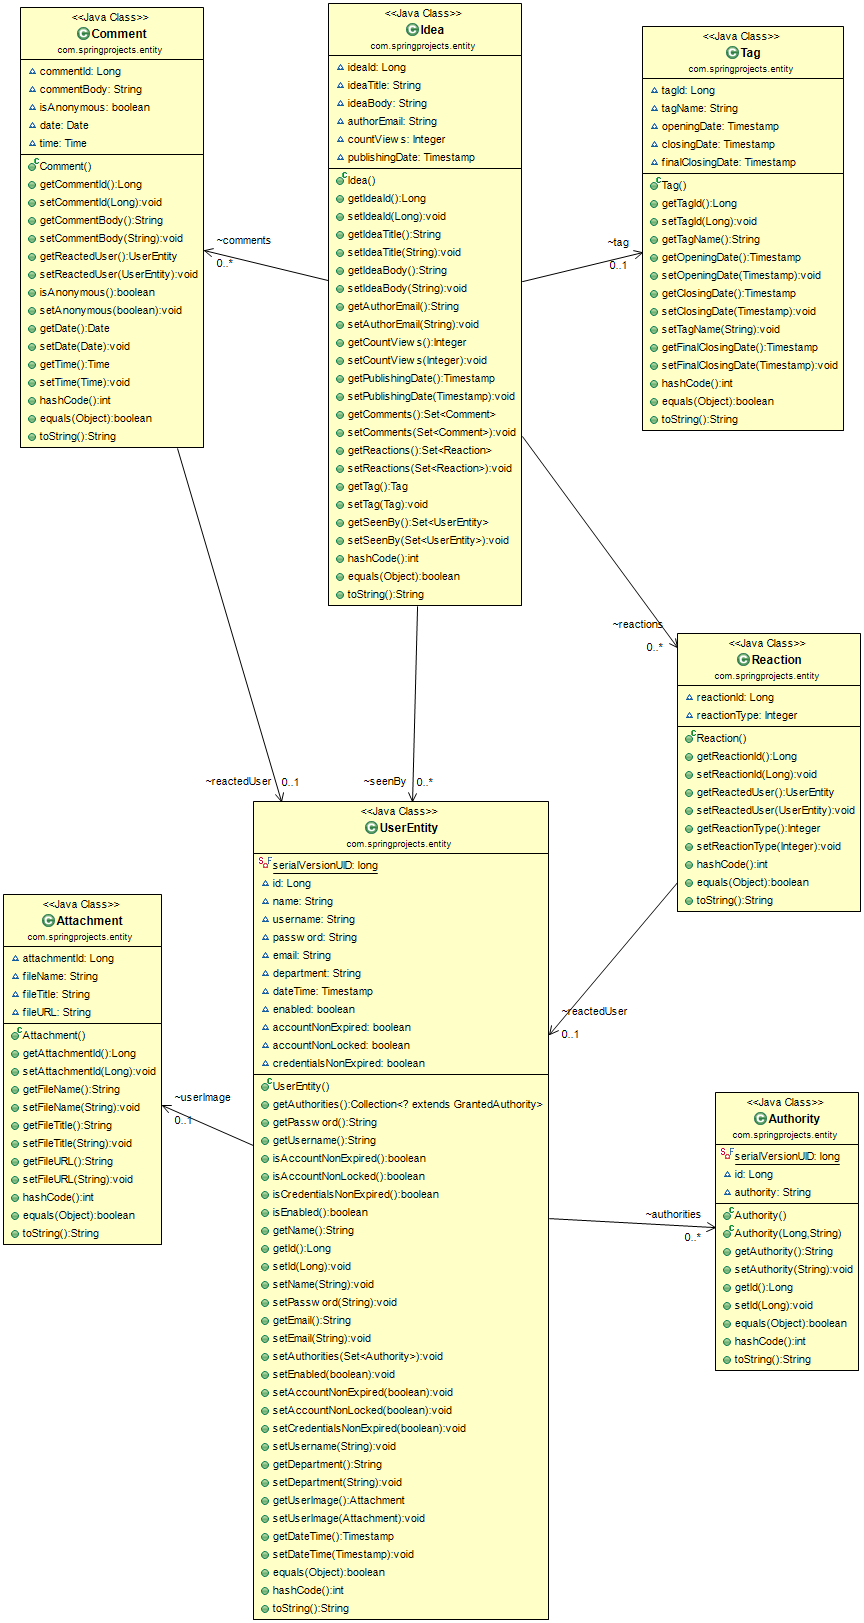
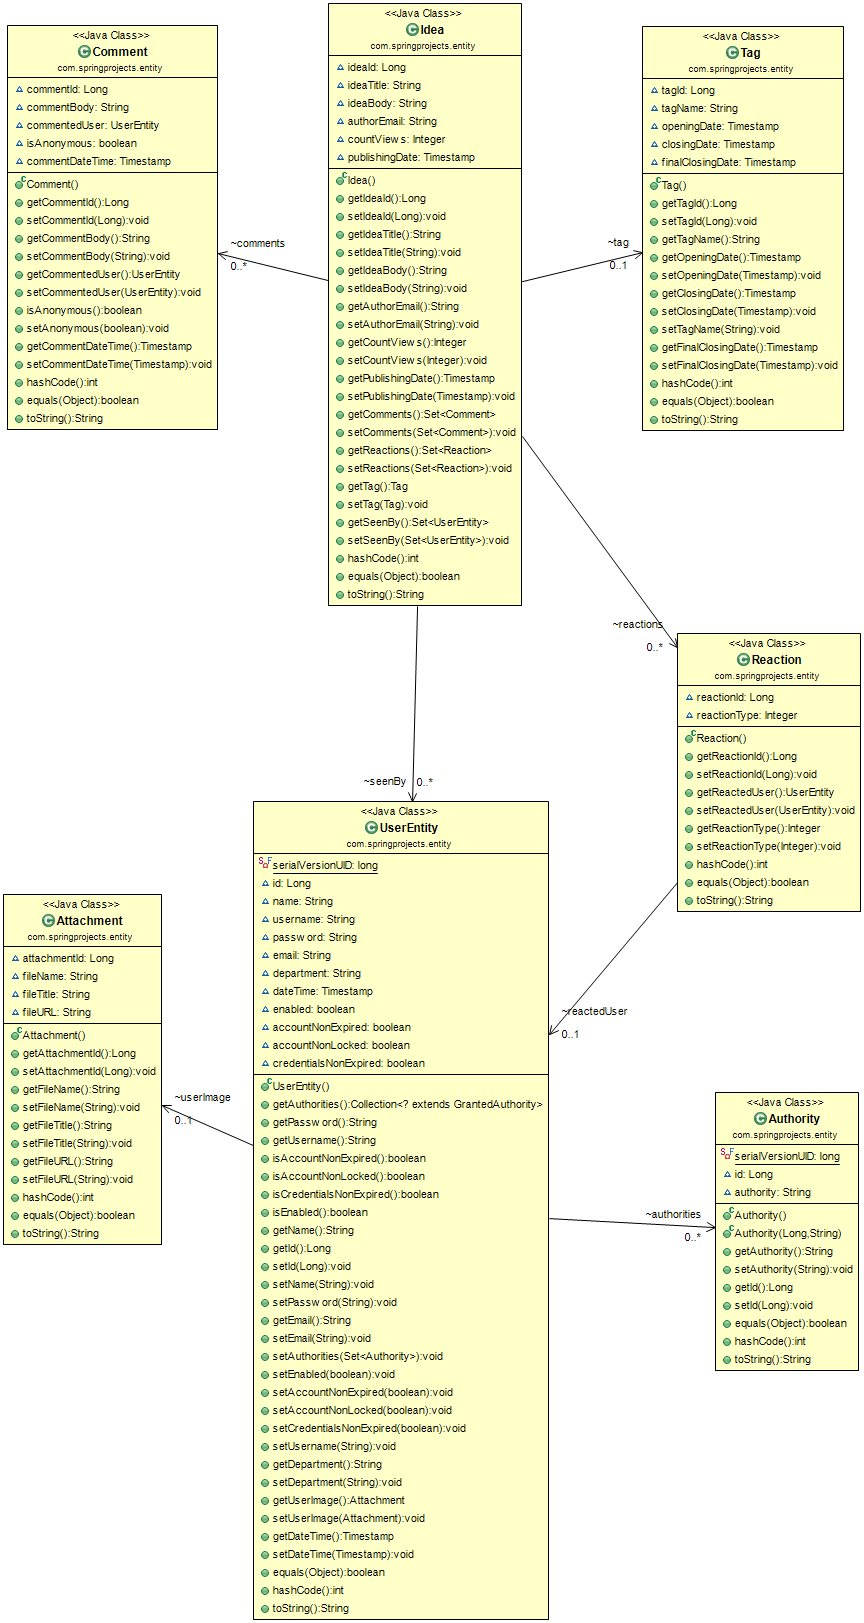
project folders organized

Changed region(s): [[0.0, 0.0, 0.3125, 0.2773], [0.2812, 0.4621, 0.3438, 0.4929]]

diff --git a/src/main/webapp/WEB-INF/views/student_template/index.html b/src/main/webapp/WEB-INF/views/student_template/index.html
@@ -283,7 +283,7 @@
 						<a href="#"><i class="fa fa-circle text-success"></i> Online</a>
 					</div>
 				</div>
-<!-- 				search form -->
+				<!-- 				search form -->
 				<form action="#" method="get" class="sidebar-form">
 					<div class="input-group">
 						<input type="text" name="q" class="form-control"
@@ -295,34 +295,40 @@
 						</span>
 					</div>
 				</form>
-<!-- 				/.search form sidebar menu: : style can be found in sidebar.less -->
+				<!-- 				/.search form sidebar menu: : style can be found in sidebar.less -->
 				<ul class="sidebar-menu" data-widget="tree">
 
 
 					<li class="header">MAIN NAVIGATION</li>
-					<li class="active treeview menu-open"><a href="#"> <i
-							class="fa fa-dashboard"></i> <span>Manage Roles</span> <span
-							class="pull-right-container"> <i
-								class="fa fa-angle-left pull-right"></i>
-						</span>
-					</a>
-						<ul class="treeview-menu">
-							<li class="active"><a th:href="@{/admin/create-role}"><i
-									class="fa fa-circle-o"></i> Create Role</a></li>
-							<li><a th:href="@{/admin/view-all-roles}"><i
-									class="fa fa-circle-o"></i> View All Roles</a></li>
-						</ul></li>
-					<li class="treeview"><a href="#"> <i class="fa fa-files-o"></i>
-							<span>Manage Tags</span> <span class="pull-right-container">
-								<i class="fa fa-angle-left pull-right"></i>
-						</span>
-					</a>
-						<ul class="treeview-menu">
-							<li><a th:href="@{/admin/create-tag}"><i
-									class="fa fa-circle-o"></i> Create Tag</a></li>
-							<li><a th:href="@{/admin//view-all-tags}"><i
-									class="fa fa-circle-o"></i> View Tags</a></li>
-						</ul></li>
+
+
+
+<!-- 					<li class="active treeview menu-open"><a href="#"> <i -->
+<!-- 							class="fa fa-dashboard"></i> <span>Manage Roles</span> <span -->
+<!-- 							class="pull-right-container"> <i -->
+<!-- 								class="fa fa-angle-left pull-right"></i> -->
+<!-- 						</span> -->
+<!-- 					</a> -->
+<!-- 						<ul class="treeview-menu"> -->
+<!-- 							<li class="active"><a th:href="@{/admin/create-role}"><i -->
+<!-- 									class="fa fa-circle-o"></i> Create Role</a></li> -->
+<!-- 							<li><a th:href="@{/admin/view-all-roles}"><i -->
+<!-- 									class="fa fa-circle-o"></i> View All Roles</a></li> -->
+<!-- 						</ul></li> -->
+<!-- 					<li class="treeview"><a href="#"> <i class="fa fa-files-o"></i> -->
+<!-- 							<span>Manage Tags</span> <span class="pull-right-container"> -->
+<!-- 								<i class="fa fa-angle-left pull-right"></i> -->
+<!-- 						</span> -->
+<!-- 					</a> -->
+<!-- 						<ul class="treeview-menu"> -->
+<!-- 							<li><a th:href="@{/admin/create-tag}"><i -->
+<!-- 									class="fa fa-circle-o"></i> Create Tag</a></li> -->
+<!-- 							<li><a th:href="@{/admin//view-all-tags}"><i -->
+<!-- 									class="fa fa-circle-o"></i> View Tags</a></li> -->
+<!-- 						</ul></li> -->
+
+
+
 				</ul>
 			</section>
 			<!-- /.sidebar -->
@@ -370,7 +376,7 @@
 										class="pull-right">13,287</a></li>
 								</ul>
 
-<!-- 								<a href="#" class="btn btn-primary btn-block"><b>Follow</b></a> -->
+								<!-- 								<a href="#" class="btn btn-primary btn-block"><b>Follow</b></a> -->
 							</div>
 							<!-- /.box-body -->
 						</div>

diff --git a/src/main/java/com/springprojects/entity/Comment.java b/src/main/java/com/springprojects/entity/Comment.java
@@ -2,6 +2,7 @@ package com.springprojects.entity;
 
 import java.sql.Date;
 import java.sql.Time;
+import java.sql.Timestamp;
 
 import javax.persistence.Column;
 import javax.persistence.Entity;
@@ -21,13 +22,11 @@ public class Comment {
 	String commentBody;
 	@OneToOne(optional=false)
 	@JoinColumn(name="commented_user_Id", unique = true, nullable = false, updatable = false)
-	UserEntity reactedUser;
+	UserEntity commentedUser;
 	@Column(name="anonymous")
 	boolean isAnonymous;
 	@Column
-	Date date;
-	@Column
-	Time time;
+	Timestamp commentDateTime;
 	public Long getCommentId() {
 		return commentId;
 	}
@@ -40,11 +39,11 @@ public class Comment {
 	public void setCommentBody(String commentBody) {
 		this.commentBody = commentBody;
 	}
-	public UserEntity getReactedUser() {
-		return reactedUser;
+	public UserEntity getCommentedUser() {
+		return commentedUser;
 	}
-	public void setReactedUser(UserEntity reactedUser) {
-		this.reactedUser = reactedUser;
+	public void setCommentedUser(UserEntity commentedUser) {
+		this.commentedUser = commentedUser;
 	}
 	public boolean isAnonymous() {
 		return isAnonymous;
@@ -53,28 +52,21 @@ public class Comment {
 		this.isAnonymous = isAnonymous;
 	}
 	
-	public Date getDate() {
-		return date;
+	public Timestamp getCommentDateTime() {
+		return commentDateTime;
 	}
-	public void setDate(Date date) {
-		this.date = date;
-	}
-	public Time getTime() {
-		return time;
-	}
-	public void setTime(Time time) {
-		this.time = time;
+	public void setCommentDateTime(Timestamp commentDateTime) {
+		this.commentDateTime = commentDateTime;
 	}
 	@Override
 	public int hashCode() {
 		final int prime = 31;
 		int result = 1;
 		result = prime * result + ((commentBody == null) ? 0 : commentBody.hashCode());
+		result = prime * result + ((commentDateTime == null) ? 0 : commentDateTime.hashCode());
 		result = prime * result + ((commentId == null) ? 0 : commentId.hashCode());
-		result = prime * result + ((date == null) ? 0 : date.hashCode());
+		result = prime * result + ((commentedUser == null) ? 0 : commentedUser.hashCode());
 		result = prime * result + (isAnonymous ? 1231 : 1237);
-		result = prime * result + ((reactedUser == null) ? 0 : reactedUser.hashCode());
-		result = prime * result + ((time == null) ? 0 : time.hashCode());
 		return result;
 	}
 	@Override
@@ -91,33 +83,28 @@ public class Comment {
 				return false;
 		} else if (!commentBody.equals(other.commentBody))
 			return false;
+		if (commentDateTime == null) {
+			if (other.commentDateTime != null)
+				return false;
+		} else if (!commentDateTime.equals(other.commentDateTime))
+			return false;
 		if (commentId == null) {
 			if (other.commentId != null)
 				return false;
 		} else if (!commentId.equals(other.commentId))
 			return false;
-		if (date == null) {
-			if (other.date != null)
+		if (commentedUser == null) {
+			if (other.commentedUser != null)
 				return false;
-		} else if (!date.equals(other.date))
+		} else if (!commentedUser.equals(other.commentedUser))
 			return false;
 		if (isAnonymous != other.isAnonymous)
-			return false;
-		if (reactedUser == null) {
-			if (other.reactedUser != null)
-				return false;
-		} else if (!reactedUser.equals(other.reactedUser))
-			return false;
-		if (time == null) {
-			if (other.time != null)
-				return false;
-		} else if (!time.equals(other.time))
 			return false;
 		return true;
 	}
 	@Override
 	public String toString() {
-		return "Comment [commentId=" + commentId + ", commentBody=" + commentBody + ", reactedUser=" + reactedUser
-				+ ", isAnonymous=" + isAnonymous + ", date=" + date + ", time=" + time + "]";
+		return "Comment [commentId=" + commentId + ", commentBody=" + commentBody + ", commentedUser=" + commentedUser
+				+ ", isAnonymous=" + isAnonymous + ", commentDateTime=" + commentDateTime + "]";
 	}	
 }

diff --git a/src/test/java/PasswordResetTest.java b/src/test/java/PasswordResetTest.java
@@ -1,0 +1,48 @@
+import java.io.File;
+import java.io.IOException;
+
+import org.apache.commons.io.FileUtils;
+import org.openqa.selenium.By;
+import org.openqa.selenium.OutputType;
+import org.openqa.selenium.TakesScreenshot;
+import org.openqa.selenium.WebDriver;
+import org.openqa.selenium.WebElement;
+import org.openqa.selenium.chrome.ChromeDriver;
+
+public class PasswordResetTest {
+
+	
+	
+	public static void main(String[] args) throws InterruptedException {
+		System.setProperty("webdriver.chrome.driver",
+				"C:\\Users\\Syed Mainul Hasan\\Documents\\chromedriver_win32\\chromedriver.exe");
+		WebDriver driver = new ChromeDriver();
+		//url to test
+		driver.get("http://localhost:8080/ewsd/login");
+		Thread.sleep(5000); // Let the user actually see something!
+		captureScreen(driver, "login_page");
+
+		
+		//invalid email and pass entered. try wrong email
+		WebElement passwordResetLink = driver.findElement(By.linkText("I forgot my password"));
+		passwordResetLink.click();
+		
+		driver.quit();
+		
+	}
+	
+	//function to take screenshot.
+	public static void captureScreen(WebDriver driver, String screenShotName) {
+	    String path;
+	    try {
+	        File source = ((TakesScreenshot)driver).getScreenshotAs(OutputType.FILE);
+	        path = "F:\\Study\\4. BIT\\EWSD\\" + screenShotName+".png";
+	        FileUtils.copyFile(source, new File(path)); 
+	    }
+	    catch(IOException e) {
+	        path = "Failed to capture screenshot: " + e.getMessage();
+	    }
+	}
+
+	
+}

diff --git a/src/main/java/com/springprojects/controller/UserController.java b/src/main/java/com/springprojects/controller/UserController.java
@@ -155,8 +155,12 @@ public class UserController {
 
 	@RequestMapping(value = "/reset-password", method = RequestMethod.POST)
 	public String resetPassword_POST(Model model, @RequestParam("email") String email) {
-		userService.sendPasswordResetLink(email);
-		model.addAttribute("ok", "true");
+		if(userService.existsWithEmail(email)) {
+			userService.sendPasswordResetLink(email);
+			model.addAttribute("ok", "true");
+		} else {
+			model.addAttribute("ok", "false");
+		}
 		return "/templates/reset_password";
 	}
 
